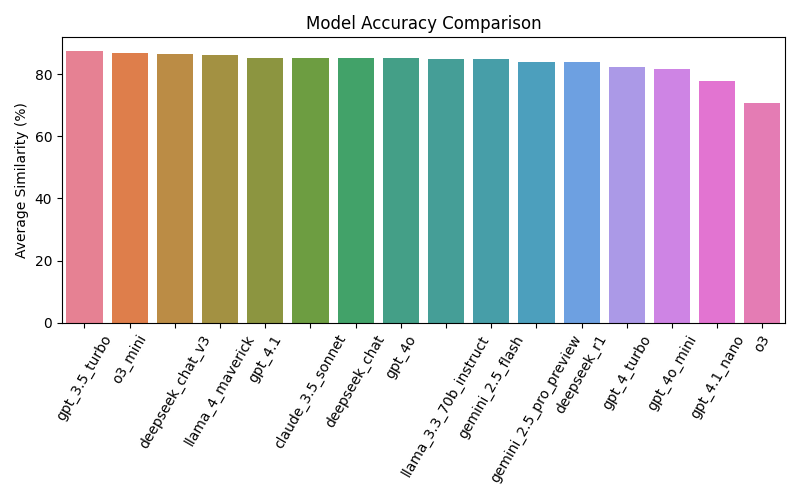
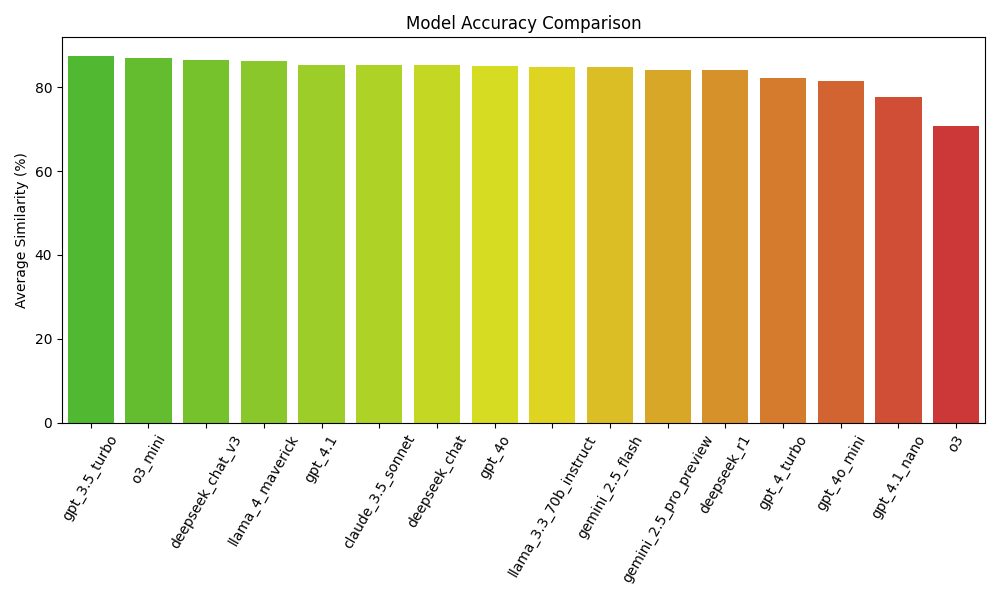
Updated color gradient

diff --git a/compare_ai.py b/compare_ai.py
@@ -3,6 +3,7 @@ import re
 import pandas as pd
 from tqdm import tqdm
 import matplotlib.pyplot as plt
+from matplotlib.colors import LinearSegmentedColormap
 import seaborn as sns
 
 GUIDELINE_FILE = "guideline_files/Reference_Grades.csv"
@@ -131,8 +132,12 @@ with open(SUMMARY_FILE, "w") as f:
     for i, (model, _) in enumerate(sorted_models, start=1):
         f.write(f"{i}. {model}\n")
 
-plt.figure(figsize=(8, 5))
-sns.barplot(x=[m for m, _ in sorted_models], y=[a for _, a in sorted_models], hue=[m for m, _ in sorted_models], legend=False)
+models = [m for m, _ in sorted_models]
+accuracies = [a for _, a in sorted_models]
+cmap = LinearSegmentedColormap.from_list("gyr", ["#44ce1b", "yellow", "#e51f1f"])
+colors = [cmap(i / (len(models) - 1)) for i in range(len(models))]
+plt.figure(figsize=(10, 6))
+sns.barplot(x=models, y=accuracies, palette=colors)
 plt.ylabel("Average Similarity (%)")
 plt.title("Model Accuracy Comparison")
 plt.xticks(rotation=60, ha='center')
